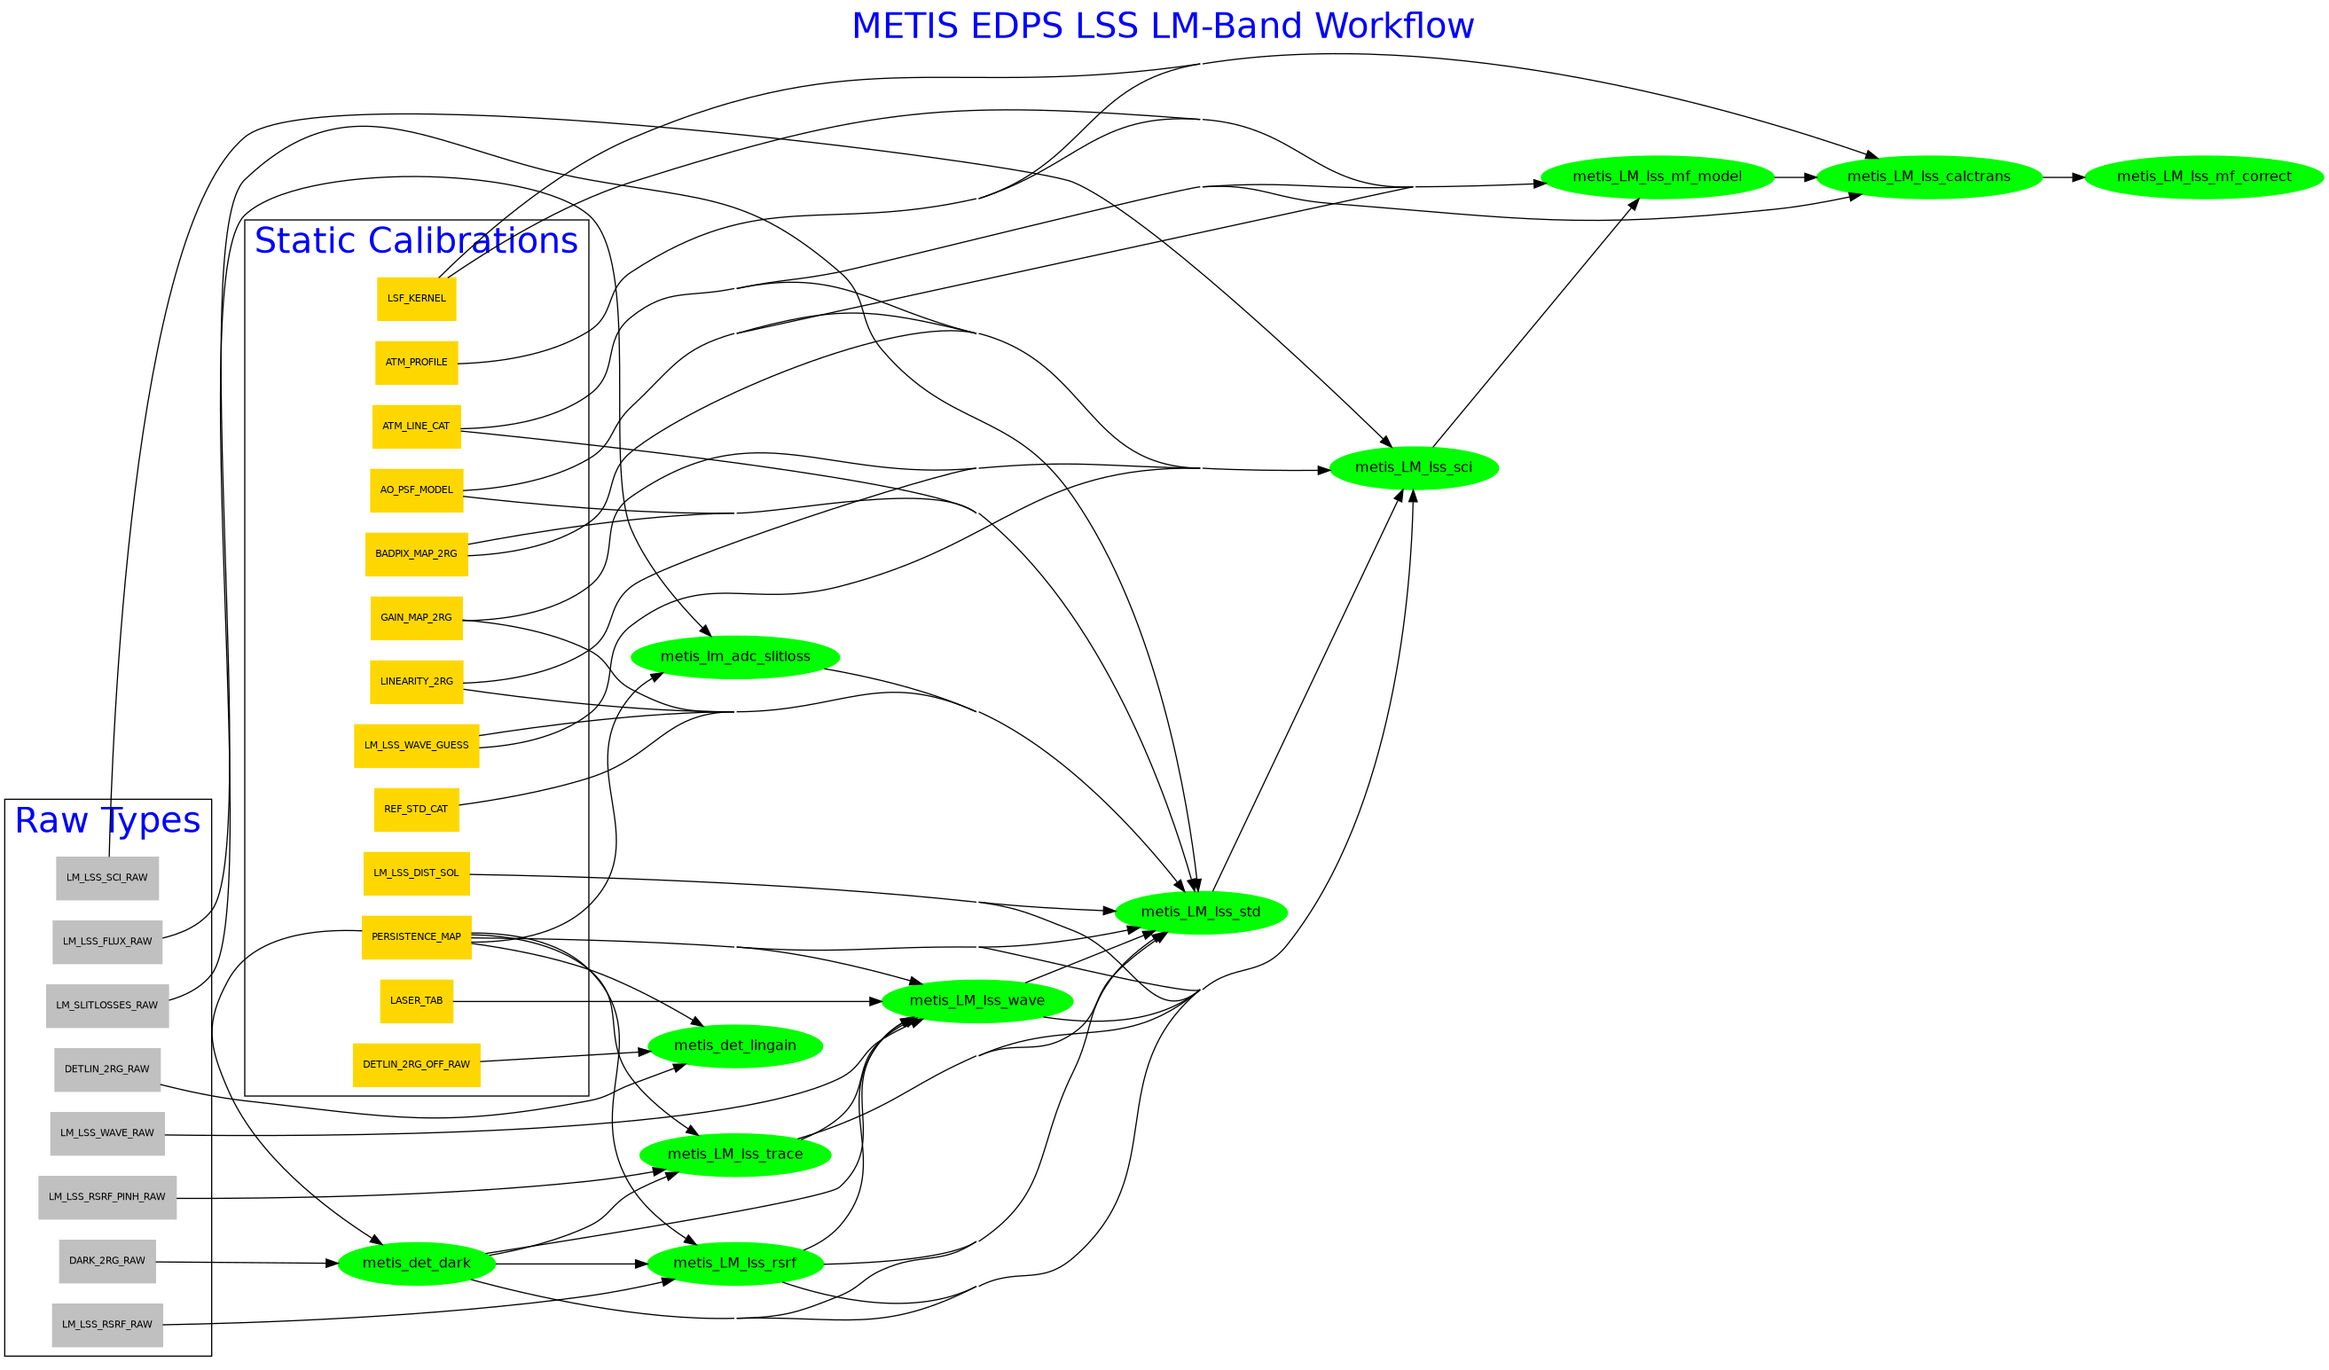
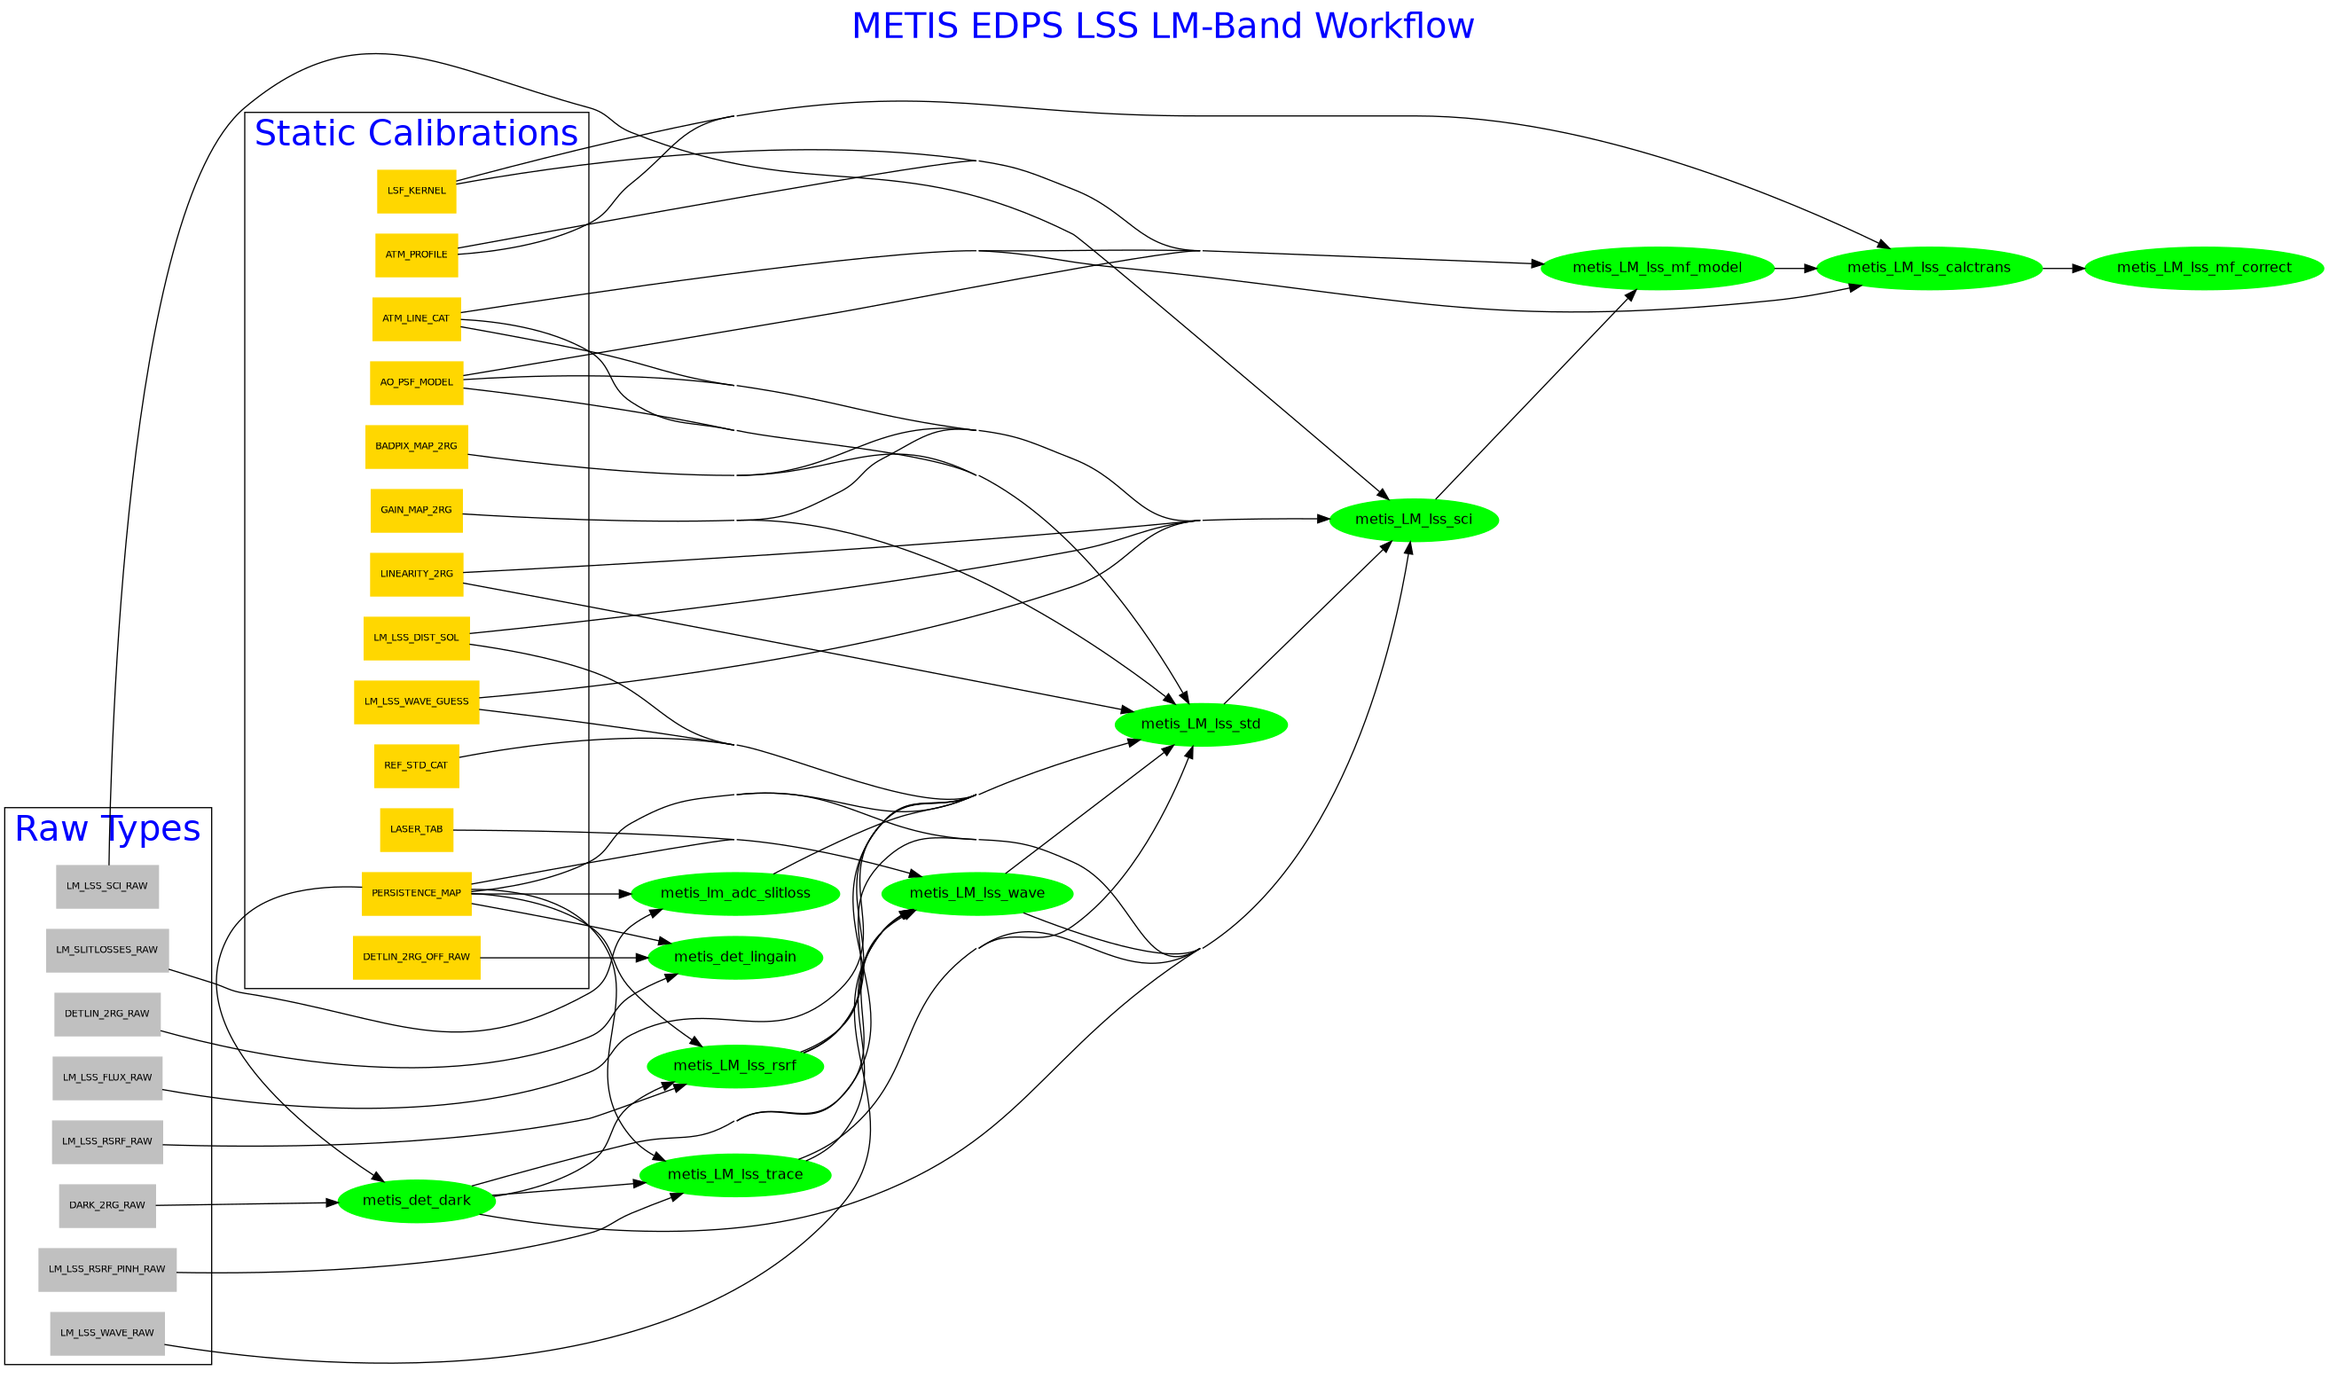
Updates: Including comments from Lodo

diff --git a/prototypes/workflows/metis/metis_lm_lss_wkf.py b/prototypes/workflows/metis/metis_lm_lss_wkf.py
@@ -1,3 +1,10 @@
+# METIS LSS LM BAND EDPS workflow
+#
+# Auhor: W. Kausch / University of Innsbruck
+#
+# Version: 0.0.1
+#
+
 """METIS LSS LM-Band workflow"""
 from edps import SCIENCE, QC1_CALIB, QC0, CALCHECKER
 from edps import task, data_source, classification_rule
@@ -13,7 +20,7 @@ from .metis_lm_lss_datasources import *
 #             .with_recipe("metis_det_persistence")
 #             .build())
 
-lingain_task = (task('metis_det_lingain')
+linearity_task = (task('metis_det_lingain')
             .with_main_input(raw_lingain)
             .with_associated_input(static_persistence_map, min_ret=0) # min_ret=0 --> optional input
             .with_associated_input(h2rg_wcu_off)        # check how that is exactly delivered by the ICS!
@@ -35,7 +42,7 @@ dark_task = (task('metis_det_dark')
             .with_meta_targets([QC1_CALIB])
             .build())
 
-rsrf_task = (task('metis_LM_lss_rsrf')
+flatfield_task = (task('metis_LM_lss_rsrf')
             .with_main_input(lm_raw_rsrf)
             .with_associated_input(static_persistence_map, min_ret=0)
             .with_associated_input(dark_task)
@@ -43,7 +50,7 @@ rsrf_task = (task('metis_LM_lss_rsrf')
             .with_meta_targets([QC1_CALIB])
             .build())
 
-trace_task = (task("metis_LM_lss_trace")
+trace_finding_task = (task("metis_LM_lss_trace")
             .with_main_input(lm_raw_rsrf_pinh)
             .with_associated_input(static_persistence_map, min_ret=0)
             .with_associated_input(dark_task)
@@ -51,28 +58,28 @@ trace_task = (task("metis_LM_lss_trace")
             .with_meta_targets([QC1_CALIB])
             .build())
 
-wave_task = (task("metis_LM_lss_wave")
+wavelength_calibration_task = (task("metis_LM_lss_wave")
             .with_main_input(lm_raw_wave)
             .with_associated_input(static_persistence_map, min_ret=0)
             .with_associated_input(dark_task)
-            .with_associated_input(rsrf_task)
-            .with_associated_input(trace_task)
+            .with_associated_input(flatfield_task)
+            .with_associated_input(trace_finding_task)
             .with_associated_input(static_laser_tab)
             .with_recipe("metis_LM_lss_wave")
             .with_meta_targets([QC1_CALIB])
             .build())
 
-std_reduction = (task('metis_LM_lss_std')
+std_reduction_task = (task('metis_LM_lss_std')
             .with_main_input(lm_raw_std)
-            # .with_associated_input(lingain_task)
+            # .with_associated_input(linearity_task)
             .with_associated_input(static_badpix_map_h2rg)
             .with_associated_input(static_gain_map_h2rg)
             .with_associated_input(static_linearity_h2rg)
             .with_associated_input(static_persistence_map, min_ret=0)
             .with_associated_input(dark_task)
-            .with_associated_input(rsrf_task)
-            .with_associated_input(trace_task)
-            .with_associated_input(wave_task)
+            .with_associated_input(flatfield_task)
+            .with_associated_input(trace_finding_task)
+            .with_associated_input(wavelength_calibration_task)
             .with_associated_input(slitloss_task)
             .with_associated_input(static_atm_line_cat)
             .with_associated_input(static_ref_std_cat)
@@ -84,21 +91,21 @@ std_reduction = (task('metis_LM_lss_std')
             .with_meta_targets([SCIENCE])
             .build())
 
-sci_reduction = (task('metis_LM_lss_sci')
+sci_reduction_task = (task('metis_LM_lss_sci')
             .with_main_input(lm_raw_science)
-            # .with_associated_input(lingain_task)
+            # .with_associated_input(linearity_task)
             .with_associated_input(static_badpix_map_h2rg)
             .with_associated_input(static_gain_map_h2rg)
             .with_associated_input(static_linearity_h2rg)
             .with_associated_input(static_persistence_map, min_ret=0)
             .with_associated_input(dark_task)
-            .with_associated_input(rsrf_task)
-            .with_associated_input(trace_task)
+            .with_associated_input(flatfield_task)
+            .with_associated_input(trace_finding_task)
             # .with_associated_input(slitloss_task)
-            .with_associated_input(wave_task)
+            .with_associated_input(wavelength_calibration_task)
             .with_associated_input(static_lm_lss_dist_sol)
             .with_associated_input(static_lm_lss_wave_guess)
-            .with_associated_input(std_reduction)
+            .with_associated_input(std_reduction_task)
             .with_associated_input(static_atm_line_cat)
             # .with_associated_input(static_lm_adc_slitloss)
             .with_associated_input(static_ao_psf_model)
@@ -106,8 +113,9 @@ sci_reduction = (task('metis_LM_lss_sci')
             .with_meta_targets([SCIENCE])
             .build())
 
+# Include branch to let user decide whether science of std data as input --> ask Lodo for branching!
 mf_model_task = (task("metis_LM_lss_mf_model")
-            .with_main_input(sci_reduction)
+            .with_main_input(sci_reduction_task)
             .with_associated_input(static_ao_psf_model)
             .with_associated_input(static_atm_line_cat)
             .with_associated_input(static_lsf_kernel)
@@ -126,7 +134,7 @@ mf_calctrans_task = (task("metis_LM_lss_calctrans")
             .build())
 
 mf_correct_task = (task("metis_LM_lss_mf_correct")
-            .with_main_input(mf_calctrans_task)
+            .with_main_input(sci_reduction_task)
             .with_associated_input(mf_calctrans_task)
             .with_recipe("metis_LM_lss_mf_correct")
             .with_meta_targets([QC1_CALIB])

diff --git a/prototypes/workflows/metis/metis_n_lss_wkf.py b/prototypes/workflows/metis/metis_n_lss_wkf.py
@@ -1,3 +1,10 @@
+# METIS LSS N BAND EDPS workflow
+#
+# Auhor: W. Kausch / University of Innsbruck
+#
+# Version: 0.0.1
+#
+
 """METIS LSS N-Band workflow"""
 from edps import SCIENCE, QC1_CALIB, QC0, CALCHECKER
 from edps import task, data_source, classification_rule
@@ -10,7 +17,7 @@ from .metis_n_lss_datasources import *
 #             .with_recipe("metis_det_persistence")
 #             .build())
 
-lingain_task = (task('metis_det_lingain')
+linearity_task = (task('metis_det_lingain')
             .with_associated_input(static_persistence_map, min_ret=0)
             .with_main_input(raw_lingain)
             .with_associated_input(geo_wcu_off)
@@ -32,7 +39,7 @@ dark_task = (task('metis_det_dark')
             .with_meta_targets([QC1_CALIB])
             .build())
 
-rsrf_task = (task('metis_N_lss_rsrf')
+flatfield_task = (task('metis_N_lss_rsrf')
             .with_associated_input(static_persistence_map, min_ret=0)
             .with_main_input(n_raw_rsrf)
             .with_associated_input(dark_task)
@@ -40,7 +47,7 @@ rsrf_task = (task('metis_N_lss_rsrf')
             .with_meta_targets([QC1_CALIB])
             .build())
 
-trace_task = (task("metis_N_lss_trace")
+trace_finding_task = (task("metis_N_lss_trace")
             .with_associated_input(static_persistence_map, min_ret=0)
             .with_main_input(n_raw_rsrf_pinh)
             .with_associated_input(dark_task)
@@ -48,17 +55,17 @@ trace_task = (task("metis_N_lss_trace")
             .with_meta_targets([QC1_CALIB])
             .build())
 
-std_reduction = (task('metis_N_lss_std')
+std_reduction_task = (task('metis_N_lss_std')
             .with_recipe('metis_N_lss_std')
             .with_main_input(n_raw_std)
-            # .with_associated_input(lingain_task)
+            # .with_associated_input(linearity_task)
             .with_associated_input(static_badpix_map_geo)
             .with_associated_input(static_gain_map_geo)
             .with_associated_input(static_linearity_geo)
             .with_associated_input(static_persistence_map, min_ret=0)
             .with_associated_input(dark_task)
-            .with_associated_input(rsrf_task)
-            .with_associated_input(trace_task)
+            .with_associated_input(flatfield_task)
+            .with_associated_input(trace_finding_task)
             .with_associated_input(slitloss_task)
             .with_associated_input(static_atm_line_cat)
             .with_associated_input(static_ref_std_cat)
@@ -69,21 +76,21 @@ std_reduction = (task('metis_N_lss_std')
             .with_meta_targets([SCIENCE])
             .build())
 
-sci_reduction = (task('metis_N_lss_sci')
+sci_reduction_task = (task('metis_N_lss_sci')
             .with_recipe('metis_N_lss_sci')
             .with_main_input(n_raw_science)
-            # .with_associated_input(lingain_task)
+            # .with_associated_input(linearity_task)
             .with_associated_input(static_badpix_map_geo)
             .with_associated_input(static_gain_map_geo)
             .with_associated_input(static_linearity_geo)
             .with_associated_input(static_persistence_map, min_ret=0)
             .with_associated_input(dark_task)
-            .with_associated_input(rsrf_task)
-            .with_associated_input(trace_task)
+            .with_associated_input(flatfield_task)
+            .with_associated_input(trace_finding_task)
             # .with_associated_input(slitloss_task)
             .with_associated_input(static_n_lss_dist_sol)
             .with_associated_input(static_n_lss_wave_guess)
-            .with_associated_input(std_reduction)
+            .with_associated_input(std_reduction_task)
             .with_associated_input(static_atm_line_cat)
             # .with_associated_input(static_n_adc_slitloss)
             .with_associated_input(static_ao_psf_model)
@@ -91,7 +98,7 @@ sci_reduction = (task('metis_N_lss_sci')
             .build())
 
 mf_model_task = (task("metis_N_lss_mf_model")
-            .with_main_input(sci_reduction)
+            .with_main_input(sci_reduction_task)
             .with_associated_input(static_ao_psf_model)
             .with_associated_input(static_atm_line_cat)
             .with_associated_input(static_lsf_kernel)
@@ -110,7 +117,7 @@ mf_calctrans_task = (task("metis_N_lss_calctrans")
             .build())
 
 mf_correct_task = (task("metis_N_lss_mf_correct")
-            .with_main_input(mf_calctrans_task)
+            .with_main_input(sci_reduction_task)
             .with_associated_input(mf_calctrans_task)
             .with_recipe("metis_N_lss_mf_correct")
             .with_meta_targets([QC1_CALIB])

diff --git a/prototypes/workflows/metis/metis_lm_lss_datasources.py b/prototypes/workflows/metis/metis_lm_lss_datasources.py
@@ -1,5 +1,21 @@
+# METIS LSS LM BAND EDPS workflow
+#
+# Auhor: W. Kausch / University of Innsbruck
+#
+# Version: 0.0.1
+#
+
 from edps import data_source
 from .metis_lm_lss_classification import *
+
+# ----------------------------------------------------------------------------
+# ----------------- Defining required number of input files ------------------
+# ----------------------------------------------------------------------------
+
+# NOTE: Currently these values are mostly dummy values!
+MIN_NUM_DARKS=5  # minimum # of darks
+MIN_NUM_RSRF=5
+MIN_NUM_PINH=5
 
 # ----------------------------------------------------------------------------
 # ------------------------------- Data sources -------------------------------
@@ -80,16 +96,19 @@ raw_slitloss = (data_source()
 
 raw_dark = (data_source()
             .with_classification_rule(dark_class)
+            .with_min_group_size(MIN_NUM_DARKS)
             .with_match_keywords(["instrume"])
             .build())
 
 lm_raw_rsrf = (data_source()
             .with_classification_rule(lm_rsrf_class)
+            .with_min_group_size(MIN_NUM_RSRF)
             .with_match_keywords(["instrume"])
             .build())
 
 lm_raw_rsrf_pinh = (data_source()
             .with_classification_rule(lm_rsrf_pinh_class)
+            .with_min_group_size(MIN_NUM_PINH)
             .with_match_keywords(["instrume"])
             .build())
 

diff --git a/prototypes/workflows/metis/metis_n_lss_datasources.py b/prototypes/workflows/metis/metis_n_lss_datasources.py
@@ -1,5 +1,22 @@
+# METIS LSS N BAND EDPS workflow
+#
+# Auhor: W. Kausch / University of Innsbruck
+#
+# Version: 0.0.1
+#
+
 from edps import data_source
 from .metis_n_lss_classification import *
+
+# ----------------------------------------------------------------------------
+# ----------------- Defining required number of input files ------------------
+# ----------------------------------------------------------------------------
+
+# NOTE: Currently these values are mostly dummy values!
+MIN_NUM_DARKS=5  # minimum # of darks
+MIN_NUM_RSRF=5
+MIN_NUM_PINH=5
+
 
 # ----------------------------------------------------------------------------
 # ------------------------------- Data sources -------------------------------
@@ -79,16 +96,19 @@ raw_slitloss = (data_source()
 
 raw_dark = (data_source()
             .with_classification_rule(dark_class)
+            .with_min_group_size(MIN_NUM_DARKS)
             .with_match_keywords(["instrume"])
             .build())
 
 n_raw_rsrf = (data_source()
             .with_classification_rule(n_rsrf_class)
+            .with_min_group_size(MIN_NUM_RSRF)
             .with_match_keywords(["instrume"])
             .build())
 
 n_raw_rsrf_pinh = (data_source()
             .with_classification_rule(n_rsrf_pinh_class)
+            .with_min_group_size(MIN_NUM_DARKS)
             .with_match_keywords(["instrume"])
             .build())
 

diff --git a/prototypes/workflows/metis/metis_lm_lss_classification.py b/prototypes/workflows/metis/metis_lm_lss_classification.py
@@ -1,3 +1,10 @@
+# METIS LSS LM BAND EDPS workflow
+#
+# Auhor: W. Kausch / University of Innsbruck
+#
+# Version: 0.0.1
+#
+
 from edps import classification_rule
 
 
@@ -32,7 +39,7 @@ h2rg_wcu_off_class = classification_rule("DETLIN_2RG_OFF_RAW",
 dark_class = classification_rule("DARK_2RG_RAW",
                                     {"instrume":"METIS",
                                      "dpr.catg": "CALIB",
-                                     "dpr.type":"FLAT,LAMP",
+                                     "dpr.type":"DARK",
                                      "dpr.tech":"LSS,LM",
                                      })
 

diff --git a/prototypes/workflows/metis/metis_n_lss_classification.py b/prototypes/workflows/metis/metis_n_lss_classification.py
@@ -1,3 +1,10 @@
+# METIS LSS N BAND EDPS workflow
+#
+# Auhor: W. Kausch / University of Innsbruck
+#
+# Version: 0.0.1
+#
+
 from edps import classification_rule
 
 

diff --git a/prototypes/workflows/metis/README.md b/prototypes/workflows/metis/README.md
@@ -1,4 +1,4 @@
-# LSS EDPS workflows
+# METIS LSS EDPS workflows
 This branch contains the first draft of the LSS LM/N-band EDPS workflows. Note that this is work in progress and far from being perfect.
 
 ## Included files:
@@ -12,5 +12,10 @@ metis_*_lss_classification.py   - contains classification rule
                                   description
 ```
 
-
 more files to follow...
+
+## Changelog:
+
+```
+2024-08-08    V0.0.1            first prototype of *wkf.py, *datasources.py, *classification.py
+```
